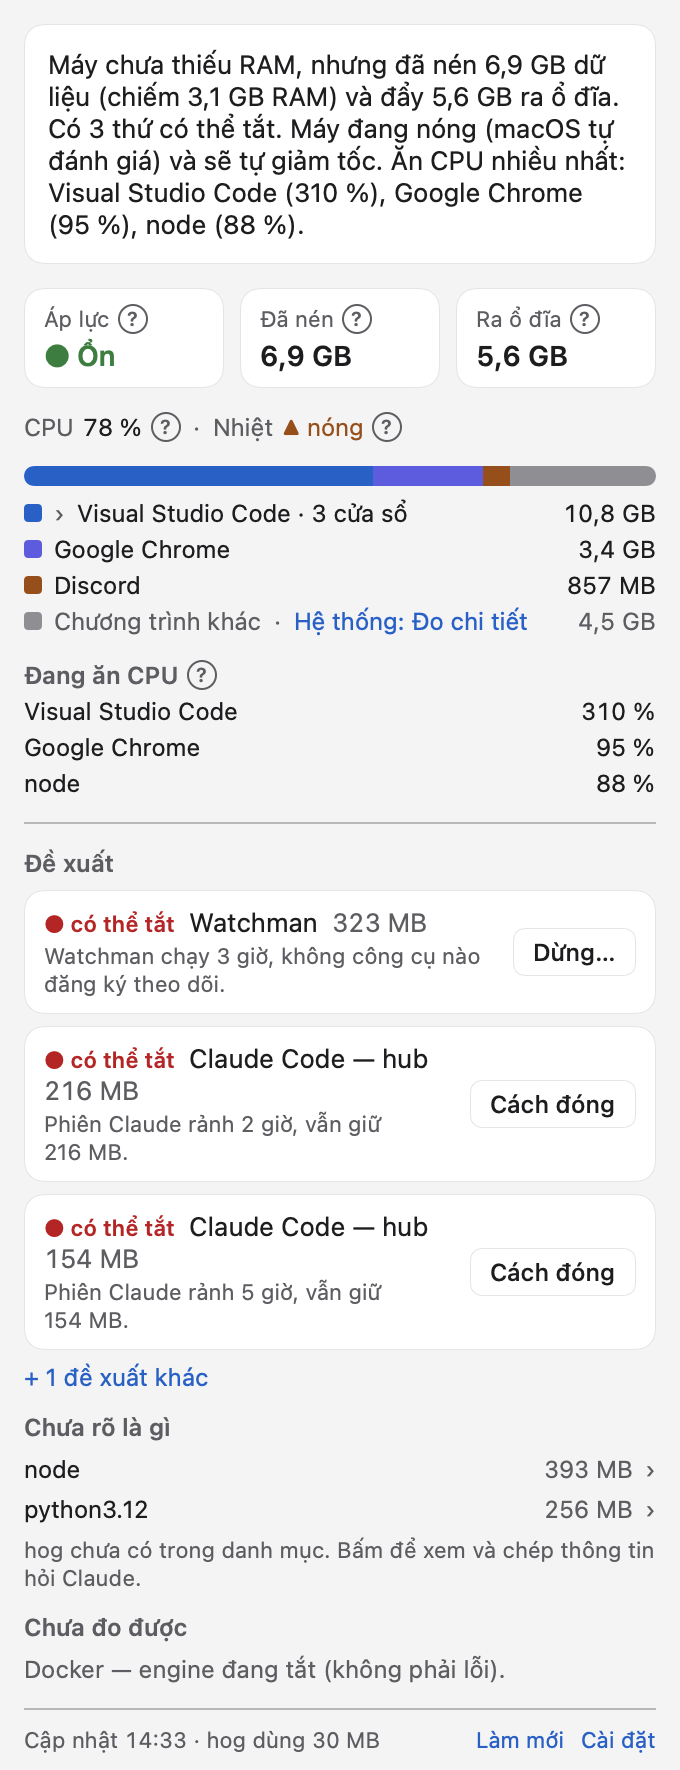
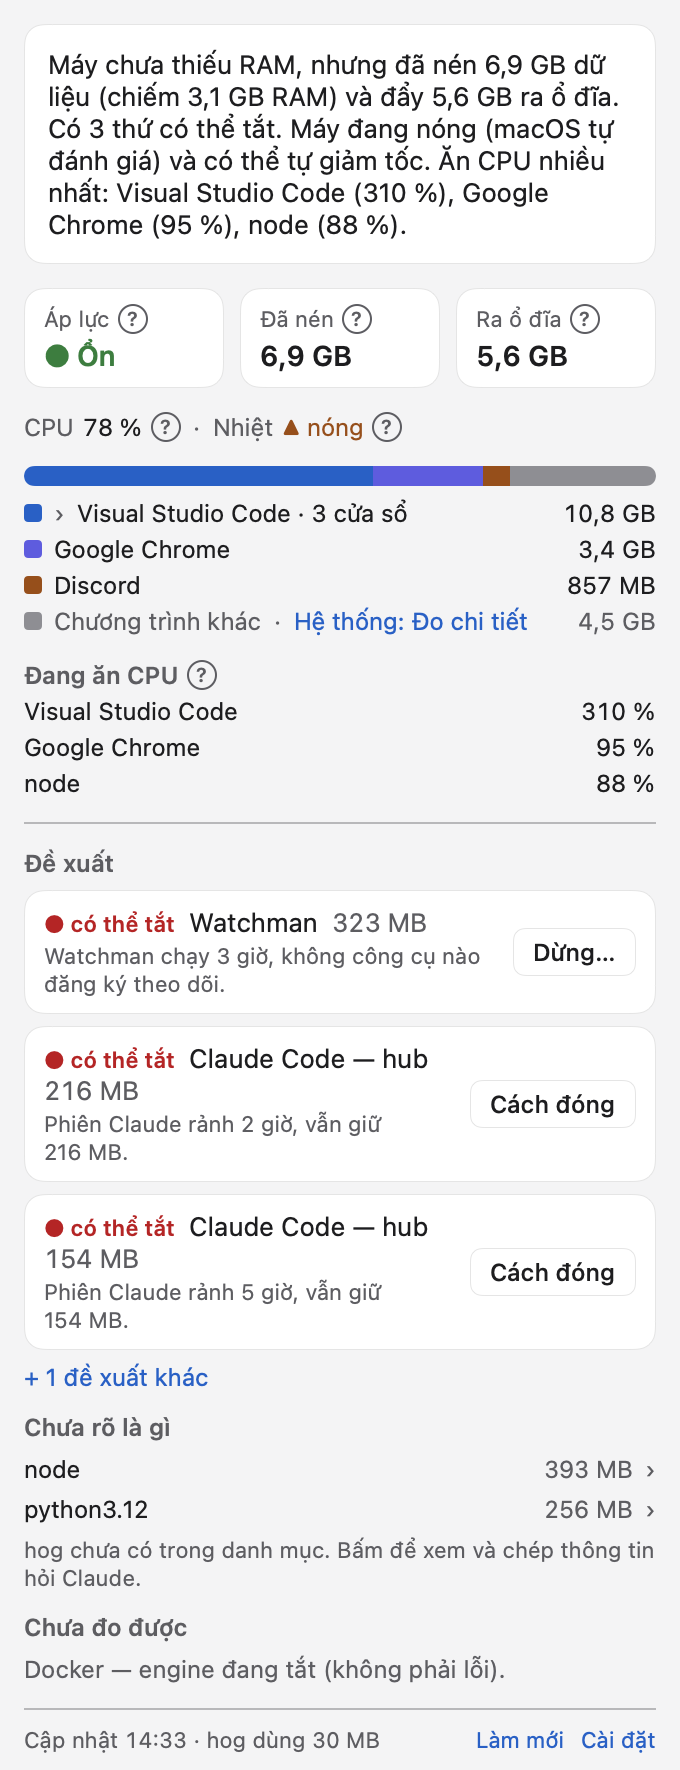
fix: CPU top from every process incl. a system share; average CPU up to the sample time
Review + QA: the most-CPU list only looked at items, so a small process at
100 % or root processes (WindowServer, kernel_task) were missed silently.
cpu.top is now computed from every process of the scan before the size
cap: apps with all their processes, programs without an app grouped by
name, and a macOS and system services share for machine CPU no readable
process accounts for; null in --fast. A process at >= 50 % of a core is an
item whatever its size. cpu.avg_pct divides by the time up to the second
CPU sample (a 1 s old process showed 197 %). 'Not measured (--fast)' only in
fast mode; 'may slow down'; hot/busy templates in the bundled-data tests;
cpu-heavy thresholds tested.

Changed region(s): [[0.0618, 0.0621, 0.8956, 0.1554]]

diff --git a/Sources/HogCore/Analyzer.swift b/Sources/HogCore/Analyzer.swift
@@ -85,6 +85,7 @@ public struct Analyzer: Sendable {
             let ownUid = p.uid.map { $0 == scan.selfUid }
             let significant = (p.footprintBytes ?? 0) >= Self.significantFootprint || catalogOf[pid] != nil
                 || own[pid]?.orphan == true || !(scan.network?.listening[pid] ?? []).isEmpty
+                || (scan.cpuNowPct[pid] ?? 0) >= Self.significantCPUPct  // small but burning CPU: cpu-heavy can see it
             guard isSession || (ownUid == true && significant) else { continue }
             let id = isSession ? "claude:\(pid)" : "proc:\(pid):\(p.startSec ?? 0)"
             itemOfPid[pid] = id
@@ -147,6 +148,7 @@ public struct Analyzer: Sendable {
         }
 
         var owners = buildOwners(scan: scan, own: own)
+        let cpuTop = cpuTop(scan: scan, own: own, owners: owners)
         let findingItems = Set(findings.map(\.itemId))
         let processes = buildProcesses(scan: scan, own: own, catalogOf: catalogOf, itemOfPid: itemOfPid, mustInclude: findingItems)
         if !full {
@@ -172,7 +174,7 @@ public struct Analyzer: Sendable {
                            uptimeS: Measured(scan.system.uptimeS)),
             memory: memory,
             cpu: CPUInfo(userPct: Measured(scan.cpu?.user), sysPct: Measured(scan.cpu?.sys), idlePct: Measured(scan.cpu?.idle),
-                         load: Measured(scan.system.load), thermal: Measured(scan.system.thermal)),
+                         load: Measured(scan.system.load), thermal: Measured(scan.system.thermal), top: Measured(cpuTop)),
             headline: Headline(level: .ok, text: "", glossaryIds: []),
             sensors: scan.sensors, owners: owners, processes: processes, items: items, findings: findings,
             warnings: (catalog.warnings + rules.warnings + explain.warnings).map(\.description))
@@ -237,12 +239,15 @@ public struct Analyzer: Sendable {
         let o = own[pid]
         let age = p.startDate.map { Int64(scan.takenAt.timeIntervalSince($0)) }
         f["age_s"] = age.map(FactValue.int) ?? .null
+        // CPU time is from the second sample: divide by the time up to that sample, not by the whole seconds at the scan
+        // start (QA 2026-10-27: a process 1 s old showed a 197 % average).
+        let cpuAge = p.startDate.map { (scan.cpuSampledAt ?? scan.takenAt).timeIntervalSince($0) }
         f["orphan"] = o?.orphan.map(FactValue.bool) ?? .null
         f["footprint_bytes"] = p.footprintBytes.map(FactValue.int) ?? .null
         f["resident_ratio"] = residentRatio(p).map(FactValue.double) ?? .null
         f["cpu.now_pct"] = scan.cpuNowPct[pid].map(FactValue.double) ?? .null
-        if let ns = p.cpuTimeNs, let age, age > 0 {
-            f["cpu.avg_pct"] = .double(Double(ns) / 1e9 / Double(age) * 100)
+        if let ns = p.cpuTimeNs, let cpuAge, cpuAge >= 1 {
+            f["cpu.avg_pct"] = .double(Double(ns) / 1e9 / cpuAge * 100)
         } else {
             f["cpu.avg_pct"] = .null
         }
@@ -486,11 +491,17 @@ public struct Analyzer: Sendable {
         var ids = template.glossaryIds
         // CPU and heat (task cpu-thermal): a second sentence only when it matters.
         let rows = MenuSummary.cpuRows(s, max: 3)
+        let cpuTopText: String = if s.cpu.top.value == nil {
+            lang == .vi ? "chưa đo (--fast)" : "not measured (--fast)"
+        } else if rows.isEmpty {
+            lang == .vi ? "không thứ gì từ 1 % một nhân" : "nothing at 1 % of a core or more"
+        } else {
+            rows.map { "\($0.label) (\(Format.percent($0.pct, lang)))" }.joined(separator: ", ")
+        }
         let cpuExtra: [String: String] = [
             "thermal": s.cpu.thermal.value.map { Format.thermal($0, lang) } ?? "?",
             "cpu_used": s.cpu.usedPct.map { Format.percent($0, lang) } ?? "?",
-            "cpu_top": rows.isEmpty ? (lang == .vi ? "chưa đo (--fast)" : "not measured (--fast)")
-                : rows.map { "\($0.label) (\(Format.percent($0.pct, lang)))" }.joined(separator: ", "),
+            "cpu_top": cpuTopText,
         ]
         var second: HeadlineTemplates.Template?
         if let th = s.cpu.thermal.value, th >= .serious {
@@ -508,4 +519,47 @@ public struct Analyzer: Sendable {
 
     /// Whole-machine CPU use above which the headline says the CPU is busy.
     static let busyCPUPct: Double = 80
+    /// A process this busy (% of one core) becomes an item whatever its size.
+    static let significantCPUPct: Double = 50
+    static let maxCPUTop = 5
+
+    /// Biggest CPU users from every process of the scan, before the size cap (reviewer + QA 2026-10-27): top-level owners
+    /// (an app with all its processes), programs without an owner grouped by name, and `system` for CPU the machine used
+    /// that no readable process accounts for (other users' processes: WindowServer, kernel_task…). `nil` in fast mode.
+    func cpuTop(scan: Scan, own: [Int32: ProcessOwnership], owners: [Owner]) -> [CPUUser]? {
+        guard !scan.cpuNowPct.isEmpty || scan.cpu != nil else { return nil }
+        let parent = Dictionary(uniqueKeysWithValues: owners.map { ($0.id, $0.parent.value) })
+        let label = Dictionary(uniqueKeysWithValues: owners.map { ($0.id, $0.label) })
+        func root(_ id: String) -> String {
+            var id = id, seen: Set<String> = []
+            while let p = parent[id] ?? nil, !seen.contains(p) { seen.insert(id); id = p }
+            return id
+        }
+        var groups: [String: CPUUser] = [:]
+        var readable = 0.0
+        for (pid, pct) in scan.cpuNowPct where pid != scan.selfPid {
+            readable += pct
+            let key: String, name: String
+            if let o = own[pid]?.ownerId { key = root(o); name = label[key] ?? key } else {
+                let exe = scan.processes[pid]?.exePath.map { ($0 as NSString).lastPathComponent } ?? "pid \(pid)"
+                key = "exe:" + exe; name = exe
+            }
+            var g = groups[key] ?? CPUUser(id: key, label: name, pct: 0, count: 0)
+            g.pct += pct; g.count += 1
+            groups[key] = g
+        }
+        var rows = groups.values.map { g -> CPUUser in
+            var g = g
+            if g.id.hasPrefix("exe:"), g.count > 1 { g.label += " (×\(g.count))" }
+            return g
+        }
+        if let idle = scan.cpu?.idle {
+            let used = max(0, 100 - idle) / 100 * Double(scan.system.ncpu) * 100
+            let rest = used - readable - (scan.cpuNowPct[scan.selfPid] ?? 0)
+            if rest >= 1 {
+                rows.append(CPUUser(id: "system", label: lang == .vi ? "macOS và dịch vụ hệ thống" : "macOS and system services", pct: rest, count: 0))
+            }
+        }
+        return Array(rows.filter { $0.pct >= 1 }.sorted { ($0.pct, $0.id) > ($1.pct, $1.id) }.prefix(Self.maxCPUTop))
+    }
 }

diff --git a/Tests/HogCoreTests/CPUThermalTests.swift b/Tests/HogCoreTests/CPUThermalTests.swift
@@ -43,6 +43,7 @@ import Testing
         let s = analyzer.analyze(scan(thermal: .serious, idle: 20))
         #expect(s.headline.text.contains("The machine is hot"))
         #expect(s.headline.text.contains("Busy (120 %)") && s.headline.text.contains("cruncher (95 %)"))
+        #expect(!s.headline.text.contains("{"), "every placeholder filled")
         #expect(s.headline.level == .warn, "hot raises the level to at least warn")
         #expect(s.headline.glossaryIds.contains("thermal-state"))
         #expect(analyzer.analyze(scan(thermal: .critical, idle: 20)).headline.level == .critical)
@@ -79,5 +80,53 @@ import Testing
         // Not measured (fast mode): the rule does not fire.
         let fast = analyzer.analyze(scan(thermal: .nominal, idle: nil))
         #expect(!fast.findings.contains { $0.rules.contains("cpu-heavy") })
+    }
+
+    // Reviewer 2026-10-27: the thresholds themselves.
+    func one(now: Double, avgSeconds: Double) -> Scan {
+        var p = RawProcess(pid: 300); p.ppid = 1; p.uid = getuid(); p.footprintBytes = 200_000_000
+        p.exePath = "/usr/local/bin/edge"; p.cwd = "/"; p.startSec = Int64(Date().timeIntervalSince1970) - 1000
+        p.cpuTimeNs = UInt64(avgSeconds * 1e9)
+        return Scan(system: RawSystem(memTotalBytes: 16 << 30, ncpu: 8, pageSize: 16384), cpu: CPUSplit(user: 50, sys: 0, idle: 50),
+                    processes: [300: p], cpuNowPct: [300: now], launchd: [:])
+    }
+
+    @Test func cpuHeavyThresholds() {
+        func fires(_ s: Scan) -> Bool { analyzer.analyze(s).findings.contains { $0.rules.contains("cpu-heavy") } }
+        #expect(!fires(one(now: 79, avgSeconds: 500)), "79 % now")
+        #expect(!fires(one(now: 80, avgSeconds: 89)), "8.9 % average")
+        #expect(fires(one(now: 80, avgSeconds: 101)), "80 % now, 10.1 % average")
+    }
+
+    @Test func topCountsSmallAndSystemProcesses() throws {
+        // A 30 MB process at 100 % (not an item by size) and CPU nobody readable accounts for.
+        var small = RawProcess(pid: 400); small.ppid = 1; small.uid = getuid(); small.footprintBytes = 30_000_000
+        small.exePath = "/usr/local/bin/cruncher"; small.cwd = "/"; small.startSec = Int64(Date().timeIntervalSince1970) - 600
+        small.cpuTimeNs = 300_000_000_000
+        var twin = small; twin.pid = 401
+        let scan = Scan(system: RawSystem(memTotalBytes: 16 << 30, ncpu: 8, pageSize: 16384), cpu: CPUSplit(user: 40, sys: 10, idle: 50),
+                        processes: [400: small, 401: twin], cpuNowPct: [400: 100, 401: 100], launchd: [:])
+        let s = analyzer.analyze(scan)
+        let top = try #require(s.cpu.top.value)
+        #expect(top.first?.label == "macOS and system services" && top.first.map { abs($0.pct - 200) < 0.01 } == true, "8 cores × 50 % − 200 %")
+        #expect(top.contains { $0.label == "cruncher (×2)" && $0.pct == 200 && $0.count == 2 }, "same program grouped")
+        #expect(s.items.contains { $0.pids == [400] }, "100 % makes it an item whatever its size")
+        #expect(s.findings.contains { $0.rules.contains("cpu-heavy") })
+    }
+
+    @Test func noReadableCPUIsNotFastMode() {
+        let s = analyzer.analyze(scan(thermal: .serious, idle: 99.9))
+        #expect(!s.headline.text.contains("--fast"))
+    }
+
+    @Test func averageUsesTheSampleTime() {
+        // 1.9 s of CPU, started 1 s before the scan, second sample 1 s later: 95 %, not 190 %.
+        var p = RawProcess(pid: 500); p.ppid = 1; p.uid = getuid(); p.footprintBytes = 200_000_000
+        p.exePath = "/usr/local/bin/young"; p.cwd = "/"; p.startSec = Int64(Date().timeIntervalSince1970) - 1; p.startUsec = 0
+        p.cpuTimeNs = 1_900_000_000
+        var scan = Scan(system: RawSystem(memTotalBytes: 16 << 30, ncpu: 8, pageSize: 16384), processes: [500: p], cpuNowPct: [500: 95], launchd: [:])
+        scan.cpuSampledAt = scan.takenAt.addingTimeInterval(1)
+        let item = analyzer.analyze(scan).items.first { $0.pids == [500] }
+        if case .double(let avg)? = item?.facts["cpu.avg_pct"] { #expect(avg <= 100) } else { Issue.record("no average") }
     }
 }

diff --git a/Sources/HogCore/MenuSummary.swift b/Sources/HogCore/MenuSummary.swift
@@ -37,13 +37,6 @@ public struct MenuSummary: Sendable, Equatable {
         public var bytes: Int64
     }
 
-    /// One line of "Đang ăn CPU": an app (all its processes) or an item without an app, in % of one core.
-    public struct CPURow: Sendable, Equatable, Identifiable {
-        public var id: String
-        public var label: String
-        public var pct: Double
-    }
-
     public struct Note: Sendable, Equatable, Identifiable {
         public var id: String { sensor }
         public var sensor: String
@@ -72,7 +65,7 @@ public struct MenuSummary: Sendable, Equatable {
     public var thermal: ThermalState?
     /// Whole-machine CPU in use (%); `nil` when not measured (fast mode).
     public var cpuUsedPct: Double?
-    public var cpuRows: [CPURow]
+    public var cpuRows: [CPUUser]
     /// Show "Đang ăn CPU" only when it matters: warm or hotter, or the CPU at least half busy.
     public var showCPU: Bool { !cpuRows.isEmpty && ((thermal ?? .nominal) >= .fair || (cpuUsedPct ?? 0) >= Self.showCPUAbovePct) }
     public var notes: [Note]
@@ -195,15 +188,9 @@ public struct MenuSummary: Sendable, Equatable {
                            notes: notes, selfBytes: s.hog.selfFootprintBytes.value, takenAt: s.takenAt)
     }
 
-    /// Biggest CPU users: top-level owners (an app counts all its processes) and items with no owner, by current CPU.
-    /// Empty when per-process CPU was not measured (fast mode).
-    public static func cpuRows(_ s: Snapshot, max n: Int) -> [CPURow] {
-        var rows = s.owners.filter { $0.parent.value == nil }.compactMap { o in o.totalCpuPct.value.map { CPURow(id: o.id, label: o.label, pct: $0) } }
-        for i in s.items where i.ownerId.value == nil {
-            if case .double(let p)? = i.facts["cpu.now_pct"] { rows.append(CPURow(id: i.id, label: i.label, pct: p)) }
-            else if case .int(let p)? = i.facts["cpu.now_pct"] { rows.append(CPURow(id: i.id, label: i.label, pct: Double(p))) }
-        }
-        return Array(rows.filter { $0.pct >= minCPURowPct }.sorted { ($0.pct, $0.id) > ($1.pct, $1.id) }.prefix(n))
+    /// Biggest CPU users (`cpu.top`, computed from the whole scan by the analyzer). Empty in fast mode.
+    public static func cpuRows(_ s: Snapshot, max n: Int) -> [CPUUser] {
+        Array((s.cpu.top.value ?? []).filter { $0.pct >= minCPURowPct }.prefix(n))
     }
 
     public static func isUnknownCandidate(_ i: Item) -> Bool {

diff --git a/Sources/HogCore/Model/Snapshot.swift b/Sources/HogCore/Model/Snapshot.swift
@@ -106,14 +106,27 @@ public struct CPUInfo: Codable, Sendable, Equatable {
     public var load: Measured<[Double]>
     /// macOS's own thermal assessment (`ProcessInfo.thermalState`); no temperature in degrees without root.
     public var thermal: Measured<ThermalState>
+    /// Biggest CPU users, from every process of the scan (before the size cap): apps with all their processes, programs
+    /// without an app grouped by name, and `system` — CPU the machine used that no readable process accounts for (root
+    /// processes such as WindowServer, kernel_task). `null` when per-process CPU was not measured (`--fast`).
+    public var top: Measured<[CPUUser]>
 
     public init(userPct: Measured<Double> = nil, sysPct: Measured<Double> = nil, idlePct: Measured<Double> = nil,
-                load: Measured<[Double]> = nil, thermal: Measured<ThermalState> = nil) {
-        self.userPct = userPct; self.sysPct = sysPct; self.idlePct = idlePct; self.load = load; self.thermal = thermal
+                load: Measured<[Double]> = nil, thermal: Measured<ThermalState> = nil, top: Measured<[CPUUser]> = nil) {
+        self.userPct = userPct; self.sysPct = sysPct; self.idlePct = idlePct; self.load = load; self.thermal = thermal; self.top = top
     }
 
     /// Share of the whole machine in use (100 − idle); `nil` in fast mode.
     public var usedPct: Double? { idlePct.value.map { max(0, 100 - $0) } }
+}
+
+/// One line of "most CPU": `pct` is % of one core (100 = one core fully busy); `count` = processes summed.
+public struct CPUUser: Codable, Sendable, Equatable, Identifiable {
+    public var id: String
+    public var label: String
+    public var pct: Double
+    public var count: Int
+    public init(id: String, label: String, pct: Double, count: Int) { self.id = id; self.label = label; self.pct = pct; self.count = count }
 }
 
 /// `ProcessInfo.ThermalState`: nominal (normal), fair (warm), serious (hot, the system slows down), critical.

diff --git a/Sources/HogBar/HogBarApp.swift b/Sources/HogBar/HogBarApp.swift
@@ -129,9 +129,13 @@ enum Renderer {
             memory: MemoryInfo(compressorBytes: Measured(3_330_000_000), compressedStoredBytes: Measured(7_410_000_000),
                                swapUsedBytes: Measured(6_010_000_000), pressure: Measured(.normal), unreadableProcessCount: 181,
                                measuredFootprintBytes: 21_000_000_000),
-            cpu: CPUInfo(idlePct: Measured(hot ? 22 : 88), thermal: Measured(hot ? .serious : .nominal)),
+            cpu: CPUInfo(idlePct: Measured(hot ? 22 : 88), thermal: Measured(hot ? .serious : .nominal),
+                         top: Measured(hot ? [CPUUser(id: "app:visual-studio-code", label: "Visual Studio Code", pct: 310, count: 24),
+                                              CPUUser(id: "app:google-chrome", label: "Google Chrome", pct: 95, count: 12),
+                                              CPUUser(id: "exe:node", label: "node", pct: 88, count: 1)]
+                                        : [CPUUser(id: "app:visual-studio-code", label: "Visual Studio Code", pct: 14, count: 24)])),
             headline: Headline(level: hot ? .warn : .ok, text: "Máy chưa thiếu RAM, nhưng đã nén 6,9 GB dữ liệu (chiếm 3,1 GB RAM) và đẩy 5,6 GB ra ổ đĩa. Có 3 thứ có thể tắt."
-                               + (hot ? " Máy đang nóng (macOS tự đánh giá) và sẽ tự giảm tốc. Ăn CPU nhiều nhất: Visual Studio Code (310 %), Google Chrome (95 %), node (88 %)." : ""),
+                               + (hot ? " Máy đang nóng (macOS tự đánh giá) và có thể tự giảm tốc. Ăn CPU nhiều nhất: Visual Studio Code (310 %), Google Chrome (95 %), node (88 %)." : ""),
                                glossaryIds: []),
             sensors: [SensorStatus(name: "docker", status: .unavailable, tookMs: 0, note: "engine socket missing")],
             owners: [

diff --git a/Sources/HogCore/Scan.swift b/Sources/HogCore/Scan.swift
@@ -14,6 +14,8 @@ public struct Scan: Sendable {
     public var processes: [Int32: RawProcess]
     /// Per-process CPU % between the two samples; empty in fast mode.
     public var cpuNowPct: [Int32: Double]
+    /// When the second CPU sample was read (`cpuTimeNs` is from then); `nil` in fast mode.
+    public var cpuSampledAt: Date?
     public var launchd: [Int32: String]?
     public var network: ExternalSensors.Network?
     public var vscode: CodeStatusParser.Status?
@@ -90,6 +92,7 @@ public struct Scanner: Sendable {
         }
         if !fast { Thread.sleep(forTimeInterval: max(0, cpuInterval - Date().timeIntervalSince(started))) }
         let second = fast ? first : Self.readAll(includeArgs: false)
+        let sampledAt = Date()
         let ticks1 = fast ? nil : SystemReader.cpuTicks()
         group.wait()
 
@@ -123,6 +126,7 @@ public struct Scanner: Sendable {
                     processes: processes, cpuNowPct: cpuNow, launchd: launchd?.value, network: network?.value,
                     vscode: vscode?.value ?? (vscodeRunning ? CodeStatusParser.fallback(processes) : nil), sessions: sessions?.value, watchman: watchman?.value,
                     containers: docker?.value, sensors: sensors.sorted { $0.name < $1.name })
+            .with { if !fast { $0.cpuSampledAt = sampledAt } }
     }
 
     static func readAll(includeArgs: Bool = true) -> [Int32: RawProcess] {
@@ -136,4 +140,8 @@ public struct Scanner: Sendable {
     static func isVSCodeMain(_ path: String) -> Bool {
         path.contains("Visual Studio Code.app/Contents/MacOS/")
     }
+}
+
+extension Scan {
+    func with(_ change: (inout Scan) -> Void) -> Scan { var s = self; change(&s); return s }
 }

diff --git a/Sources/HogBar/Pages.swift b/Sources/HogBar/Pages.swift
@@ -234,7 +234,7 @@ struct SettingsPage: View {
                 Text("English").tag(HogModel.LangSetting.en.rawValue)
             }
             Toggle(model.t("Mở cùng máy", "Open at login"), isOn: Binding(get: { model.launchAtLogin }, set: { model.launchAtLogin = $0 }))
-            Toggle(model.t("Đổi màu icon theo áp lực", "Colour the icon by pressure"), isOn: $model.coloredIcon)
+            Toggle(model.t("Đổi màu icon theo áp lực và nhiệt", "Colour the icon by pressure and heat"), isOn: $model.coloredIcon)
             Text(model.t("hog không gửi dữ liệu đi đâu. Nhật ký dừng: ~/.local/state/hog/actions.jsonl",
                          "hog sends nothing anywhere. Stop log: ~/.local/state/hog/actions.jsonl"))
                 .font(Theme.caption).foregroundStyle(Theme.text2)

diff --git a/Tests/HogCoreTests/ReviewFixTests.swift b/Tests/HogCoreTests/ReviewFixTests.swift
@@ -155,7 +155,7 @@ import Testing
     @Test func glossaryIdsUsedByTheAppExist() throws {
         let ids = MenuSummary.tileGlossaryIds + MenuSummary.cliGlossaryIds + MenuSummary.whyFacts.map(\.glossaryId) + ["system-processes"]
         let h = try #require(analyzer.explain.headlines)
-        for id in ids + [h.okClean, h.okSuggest, h.warn, h.critical, h.criticalNoSuggest, h.unknown].flatMap(\.glossaryIds) {
+        for id in ids + [h.okClean, h.okSuggest, h.warn, h.critical, h.criticalNoSuggest, h.unknown, h.hot, h.busy].flatMap(\.glossaryIds) {
             let e = analyzer.explain.glossary[id]
             #expect(e != nil, "missing glossary \(id)")
             #expect(e.map { ($0.name.missingLanguages + $0.plain.missingLanguages).isEmpty } ?? false)

diff --git a/Tests/HogCoreTests/BundledDataTests.swift b/Tests/HogCoreTests/BundledDataTests.swift
@@ -42,7 +42,7 @@ import Testing
         #expect(explain.warnings.isEmpty, "\(explain.warnings)")
         #expect(explain.glossary.count == 28)
         let h = try #require(explain.headlines)
-        for t in [h.okClean, h.okSuggest, h.warn, h.critical, h.unknown] {
+        for t in [h.okClean, h.okSuggest, h.warn, h.critical, h.unknown, h.hot, h.busy] {
             #expect(t.text.missingLanguages.isEmpty)
             for id in t.glossaryIds { #expect(explain.glossary[id] != nil, "headline uses unknown glossary id \(id)") }
         }

diff --git a/Sources/HogBar/Components.swift b/Sources/HogBar/Components.swift
@@ -184,7 +184,7 @@ struct ThermalValue: View {
 /// "Đang ăn CPU": shown when warm or hotter, or the CPU at least half busy (`MenuSummary.showCPU`).
 struct CPUList: View {
     @EnvironmentObject var model: HogModel
-    let rows: [MenuSummary.CPURow]
+    let rows: [CPUUser]
 
     var body: some View {
         VStack(alignment: .leading, spacing: 3) {

diff --git a/README.md b/README.md
@@ -9,7 +9,8 @@ idle for hours, a container restarting in a loop.
 
 hog answers four questions, in this order:
 
-1. **Is the machine short of memory?** — one sentence, based on memory pressure, compression and swap.
+1. **Is the machine short of memory — or hot?** — one sentence, based on memory pressure, compression and swap, and on
+   macOS's own thermal assessment and CPU use (what uses the most CPU, including macOS itself).
 2. **What is eating it, and who owns it?** — grouped by app → VS Code window → Claude session / project.
 3. **Can I stop it, and what do I lose?** — suggestions backed by measurements, never guesses.
 4. **What does this number mean?** — every number has a plain-language explanation, with the Activity Monitor name.
